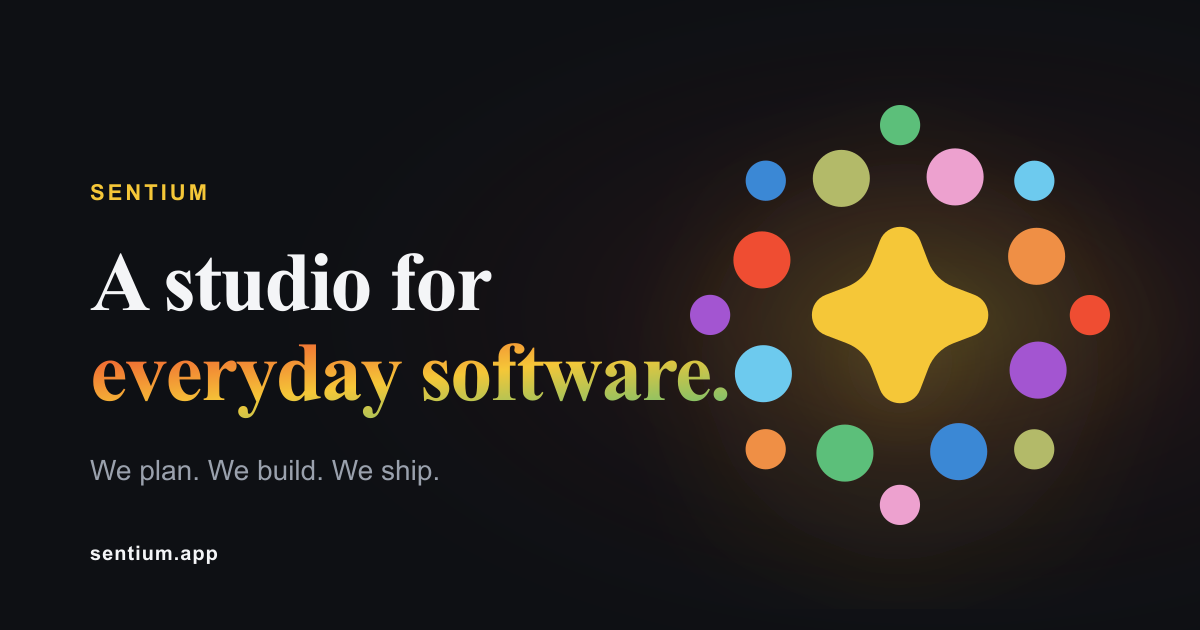
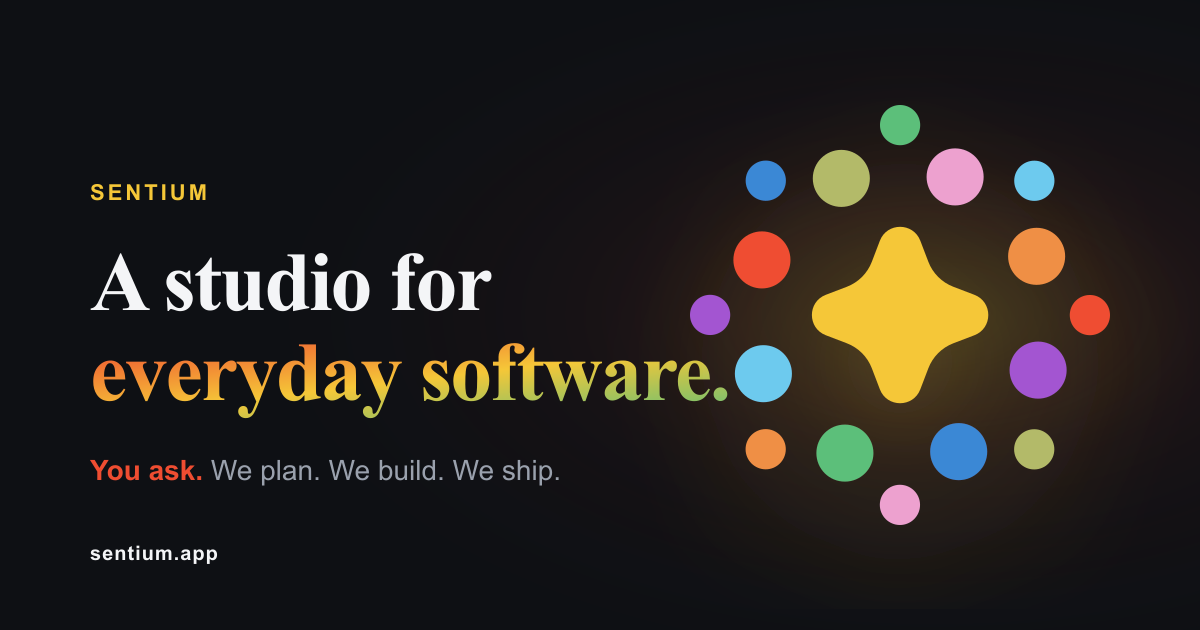
copy: refresh hero, projects, and brand catchphrase
- Hero eyebrow pill now reads "You ask. We plan. We build. We ship."
  with "You ask" in coral, framing Sentium as available for partnerships
  and inbound briefs (not only first-party products).
- Hero subline mentions mobile and web explicitly, plus "for ourselves
  and for the people who bring us a good idea" - signalling we ship our
  own products *and* partner with others.
- Projects: section title now "Some of the things we've shipped" so the
  carousel doesn't read as exhaustive when it's a curated subset.
- Project cards: replaced the meaningless 2-letter initials badge with
  a useful platform pill ("iOS app" / "Web app"). Added a typed
  `platform` field to the Project domain type. Surfaces the studio's
  mobile-and-web breadth at a glance.
- Metadata, OG description, Twitter card, JSON-LD slogan +
  Organization description all updated to match.
- OG image regenerated with the new catchphrase ("You ask." highlighted
  in coral) and the broader positioning.

Changed region(s): [[0.0617, 0.7238, 0.4625, 0.7841]]

diff --git a/src/ui/sections/Hero.tsx b/src/ui/sections/Hero.tsx
@@ -28,7 +28,7 @@ export function Hero() {
         <div className="grid lg:grid-cols-[1.1fr_0.9fr] gap-12 lg:gap-16 items-center">
           <div>
             <div
-              className="inline-flex items-center gap-2 rounded-full px-3.5 py-1.5 text-xs font-semibold tracking-[0.05em] mb-7"
+              className="inline-flex flex-wrap items-center gap-x-2 gap-y-1 rounded-full px-3.5 py-1.5 text-xs font-semibold tracking-[0.05em] mb-7"
               style={{
                 background: "var(--color-card)",
                 border: "1px solid var(--color-line)",
@@ -39,6 +39,8 @@ export function Hero() {
                 className="inline-block h-1.5 w-1.5 rounded-full"
                 style={{ background: "var(--brand-mint)" }}
               />
+              <span style={{ color: "var(--brand-coral)" }}>You ask.</span>
+              <span style={{ color: "var(--color-muted)" }}>·</span>
               We plan.
               <span style={{ color: "var(--color-muted)" }}>·</span>
               We build.
@@ -56,8 +58,9 @@ export function Hero() {
               className="mt-7 max-w-xl text-lg sm:text-xl leading-relaxed"
               style={{ color: "var(--color-muted)" }}
             >
-              We design and build consumer apps across learning, wellbeing,
-              travel, and personal finance.
+              We design and build mobile and web apps across learning,
+              wellbeing, travel, and personal finance - for ourselves,
+              and for the people who bring us a good idea.
             </p>
 
             <div className="mt-9 flex flex-wrap items-center gap-3">

diff --git a/src/app/layout.tsx b/src/app/layout.tsx
@@ -26,7 +26,7 @@ export const metadata: Metadata = {
     template: "%s · Sentium",
   },
   description:
-    "Sentium is a small, focused technology studio designing and building consumer apps across learning, wellbeing, travel, and personal finance. We plan, we build, we ship.",
+    "Sentium is a small, focused technology studio designing and building mobile and web apps across learning, wellbeing, travel, and personal finance. You ask, we plan, we build, we ship.",
   applicationName: "Sentium",
   keywords: [
     "Sentium",
@@ -65,7 +65,7 @@ export const metadata: Metadata = {
     url: SITE_URL,
     title: "Sentium - A studio for everyday software",
     description:
-      "We design and build consumer apps across learning, wellbeing, travel, and personal finance. We plan, we build, we ship.",
+      "We design and build mobile and web apps across learning, wellbeing, travel, and personal finance. You ask, we plan, we build, we ship.",
     siteName: "Sentium",
     locale: "en_GB",
     images: [
@@ -81,7 +81,7 @@ export const metadata: Metadata = {
   twitter: {
     card: "summary_large_image",
     title: "Sentium - A studio for everyday software",
-    description: "We plan. We build. We ship.",
+    description: "You ask. We plan. We build. We ship.",
     images: ["/og-image.png"],
   },
   icons: {

diff --git a/src/lib/structured-data.ts b/src/lib/structured-data.ts
@@ -29,7 +29,7 @@ export function organizationSchema(): SchemaThing {
       url: `${SITE_URL}/branding/symbol.svg`,
     },
     description:
-      "A small, focused technology studio designing and building consumer apps across learning, wellbeing, travel, and personal finance.",
+      "A small, focused technology studio designing and building mobile and web apps across learning, wellbeing, travel, and personal finance. We work on our own products and partner with people who bring us a good idea.",
     foundingLocation: {
       "@type": "Place",
       address: {
@@ -58,7 +58,7 @@ export function organizationSchema(): SchemaThing {
       value: "16512683",
     },
     legalName: "Sentium Ltd",
-    slogan: "We plan. We build. We ship.",
+    slogan: "You ask. We plan. We build. We ship.",
     knowsAbout: [
       "Mobile app development",
       "iOS app development",
@@ -82,7 +82,7 @@ export function websiteSchema(): SchemaThing {
     url: SITE_URL,
     name: "Sentium",
     description:
-      "A studio for everyday software. We design and build consumer apps across learning, wellbeing, travel, and personal finance.",
+      "A studio for everyday software. We design and build mobile and web apps across learning, wellbeing, travel, and personal finance.",
     publisher: {
       "@id": ORG_ID,
     },

diff --git a/src/domain/projects/projects.ts b/src/domain/projects/projects.ts
@@ -9,6 +9,7 @@ export const projects: Project[] = [
       "Part of the Alfie suite of children's apps. Endless, instantly-generated colouring sheets that match whatever your child is into this week.",
     href: "https://apps.apple.com/app/alfie-colouring",
     accent: "brand-coral",
+    platform: "iOS",
   },
   {
     id: "alfie-puzzles",
@@ -18,6 +19,7 @@ export const projects: Project[] = [
       "Another from the Alfie suite. Quick, friendly puzzles for the half-hour after school, when little brains still want a workout but bedtime isn't far away.",
     href: "https://apps.apple.com/gb/app/alfie-puzzles/id6762566734",
     accent: "brand-sky",
+    platform: "iOS",
   },
   {
     id: "kidwise",
@@ -27,6 +29,7 @@ export const projects: Project[] = [
       "A web app that turns the everyday stuff (money, time, communication, decisions) into bite-size lessons for kids who are about to need them.",
     href: "https://kidwise.io/",
     accent: "brand-blue",
+    platform: "Web",
   },
   {
     id: "makemycard",
@@ -36,5 +39,6 @@ export const projects: Project[] = [
       "Personal, beautifully crafted greeting cards for any occasion. Written, designed and ready to share in under a minute.",
     href: "https://makemycard.io",
     accent: "brand-mint",
+    platform: "Web",
   },
 ];

diff --git a/src/ui/components/ProjectCarousel.tsx b/src/ui/components/ProjectCarousel.tsx
@@ -100,14 +100,13 @@ export function ProjectCarousel({ projects }: { projects: Project[] }) {
 
                 <div className="relative flex h-full flex-col gap-5 sm:gap-7">
                   <div
-                    className="inline-flex h-10 w-10 items-center justify-center rounded-xl text-xs font-semibold uppercase tracking-widest"
+                    className="inline-flex h-7 w-fit items-center rounded-full px-3 text-[10px] font-bold uppercase tracking-[0.14em]"
                     style={{
-                      background: accentVar[project.accent],
-                      color: "white",
+                      background: `color-mix(in srgb, ${accentVar[project.accent]} 14%, transparent)`,
+                      color: accentVar[project.accent],
                     }}
-                    aria-hidden="true"
                   >
-                    {project.name.slice(0, 2)}
+                    {project.platform === "iOS" ? "iOS app" : "Web app"}
                   </div>
 
                   <div>

diff --git a/src/ui/sections/Projects.tsx b/src/ui/sections/Projects.tsx
@@ -20,7 +20,7 @@ export function Projects() {
               eyebrow="Projects"
               title={
                 <>
-                  Things we&apos;ve <span className="gradient-text">shipped</span>.
+                  Some of the things we&apos;ve <span className="gradient-text">shipped</span>.
                 </>
               }
               description="Live in the App Store and on the open web. Each one started as something we wanted to exist."

diff --git a/src/domain/projects/types.ts b/src/domain/projects/types.ts
@@ -8,6 +8,8 @@ export type ProjectAccent =
   | "brand-pink"
   | "brand-gold";
 
+export type ProjectPlatform = "iOS" | "Web";
+
 export interface Project {
   id: string;
   name: string;
@@ -15,6 +17,7 @@ export interface Project {
   description: string;
   href: string;
   accent: ProjectAccent;
+  platform: ProjectPlatform;
   imageSrc?: string;
   imageAlt?: string;
 }

diff --git a/src/domain/projects/index.ts b/src/domain/projects/index.ts
@@ -1,2 +1,2 @@
-export type { Project, ProjectAccent } from "./types";
+export type { Project, ProjectAccent, ProjectPlatform } from "./types";
 export { projects } from "./projects";
